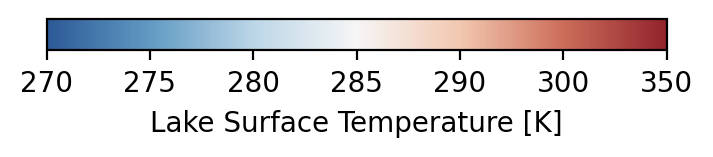
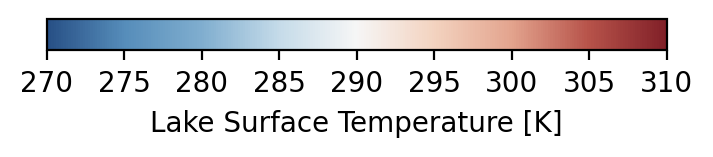
fix: issue with using complete day for lake data, updated colormap legend for lake temperature

diff --git a/app/src/config/trilateral.js b/app/src/config/trilateral.js
@@ -5,7 +5,9 @@ import WKB from 'ol/format/WKB';
 import GeoJSON from 'ol/format/GeoJSON';
 import latLng from '@/latLng';
 import { DateTime } from 'luxon';
-import { shTimeFunction, shS2TimeFunction, shWeeklyTimeFunction } from '@/utils';
+import {
+  simplifiedshTimeFunction, shTimeFunction, shS2TimeFunction, shWeeklyTimeFunction,
+} from '@/utils';
 import { baseLayers, overlayLayers } from '@/config/layers';
 import availableDates from '@/config/data_dates.json';
 import locations from '@/config/locations.json';
@@ -5127,7 +5129,7 @@ export const globalIndicators = [
         time: availableDates.LAKES_SURFACE_WATER_TEMPERATURE_Biwa,
         inputData: [''],
         display: {
-          dateFormatFunction: shTimeFunction,
+          dateFormatFunction: simplifiedshTimeFunction,
           minZoom: 7,
           maxZoom: 14,
           layers: 'LAKES_SURFACE_WATER_TEMPERATURE',
@@ -5159,7 +5161,7 @@ export const globalIndicators = [
   //       time: availableDates.LAKES_SURFACE_WATER_TEMPERATURE_Tonlesap,
   //       inputData: [''],
   //       display: {
-  //         dateFormatFunction: shTimeFunction,
+  //         dateFormatFunction: simplifiedshTimeFunction,
   //         minZoom: 7,
   //         maxZoom: 14,
   //         layers: 'LAKES_SURFACE_WATER_TEMPERATURE',
@@ -5190,7 +5192,7 @@ export const globalIndicators = [
         time: availableDates.LAKES_SURFACE_WATER_TEMPERATURE_Vanern,
         inputData: [''],
         display: {
-          dateFormatFunction: shTimeFunction,
+          dateFormatFunction: simplifiedshTimeFunction,
           minZoom: 7,
           maxZoom: 14,
           layers: 'LAKES_SURFACE_WATER_TEMPERATURE',
@@ -5222,7 +5224,7 @@ export const globalIndicators = [
         time: availableDates.LAKES_SURFACE_WATER_TEMPERATURE_Balaton,
         inputData: [''],
         display: {
-          dateFormatFunction: shTimeFunction,
+          dateFormatFunction: simplifiedshTimeFunction,
           minZoom: 7,
           maxZoom: 14,
           layers: 'LAKES_SURFACE_WATER_TEMPERATURE',

diff --git a/app/src/utils.js b/app/src/utils.js
@@ -19,6 +19,16 @@ export function padLeft(str, pad, size) {
   return out;
 }
 
+export function simplifiedshTimeFunction(date) {
+  let tempDate = date;
+  if (!Array.isArray(tempDate)) {
+    tempDate = [tempDate];
+  }
+  const dateObj = DateTime.fromISO(tempDate[0]);
+  const defaultFormat = "yyyy-MM-dd'T'HH:mm:ss";
+  return `${dateObj.toFormat(defaultFormat)}/${dateObj.toFormat(defaultFormat)}`;
+}
+
 export function shTimeFunction(date) {
   let tempDate = date;
   if (!Array.isArray(tempDate)) {
